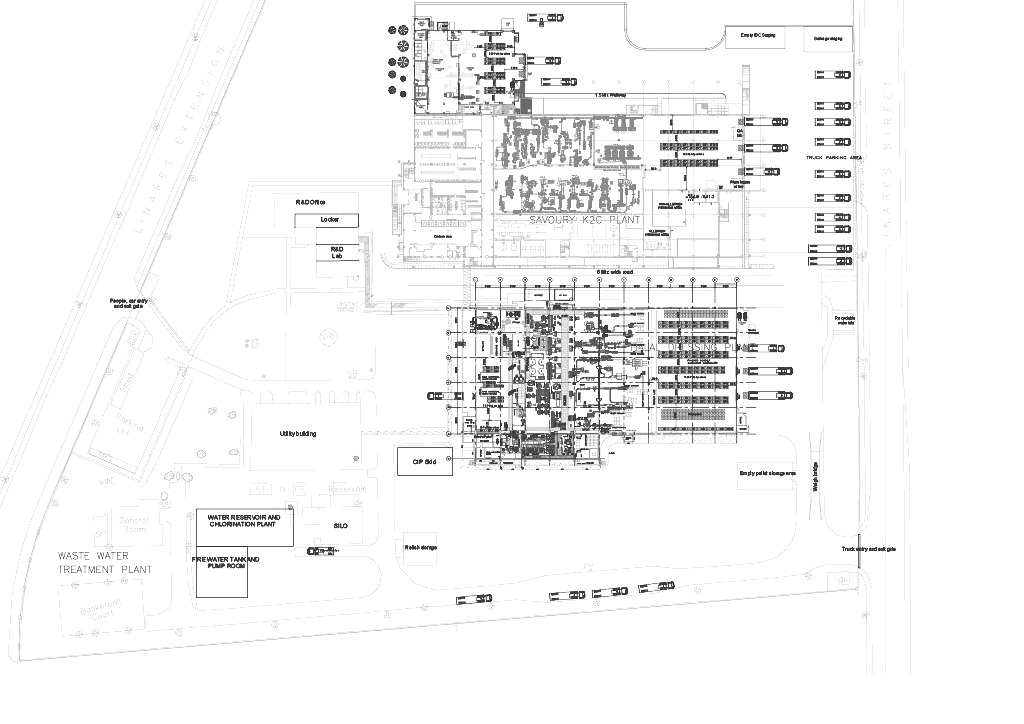
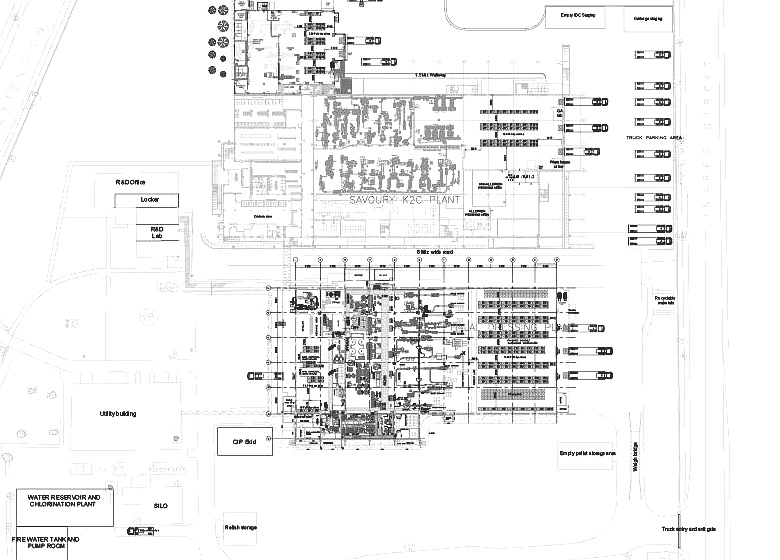
a

diff --git a/src/styles/App.css b/src/styles/App.css
@@ -3700,10 +3700,9 @@ body:has(.loading-aware-btn:disabled) * {
 
 /* =========================================================
    Workforce Map page
-   - uses real map assets:
-     /public/workforce-map-light.jpg
-     /public/workforce-map-dark.jpg
-   - side "Inside now" list removed; legend + latest scan only
+   - updated legends: Admin, Production, Engineering,
+     Logistics/QA, and R&D
+   - map is zoomed and sharpened for better readability
 ========================================================= */
 .workforce-map-page {
   min-height: calc(100vh - 190px);
@@ -3824,7 +3823,7 @@ body:has(.loading-aware-btn:disabled) * {
 .map-blueprint-canvas {
   position: relative;
   height: 100%;
-  min-height: 570px;
+  min-height: 580px;
   border-radius: 22px;
   overflow: hidden;
   display: flex;
@@ -3845,9 +3844,9 @@ body:has(.loading-aware-btn:disabled) * {
 
 .map-image-frame {
   position: relative;
-  width: min(100%, calc((100vh - 275px) * 1.414));
+  width: min(100%, calc((100vh - 260px) * 1.393));
   max-width: 100%;
-  aspect-ratio: 1024 / 724;
+  aspect-ratio: 780 / 560;
   border-radius: 18px;
   overflow: hidden;
   box-shadow: 0 12px 30px rgba(15, 23, 42, 0.10);
@@ -3878,7 +3877,7 @@ body:has(.loading-aware-btn:disabled) * {
 }
 
 .app-shell[data-theme="dark"] .map-image-frame::after {
-  background: linear-gradient(180deg, rgba(11,17,29,0.06), rgba(11,17,29,0.10));
+  background: linear-gradient(180deg, rgba(11,17,29,0.05), rgba(11,17,29,0.10));
 }
 
 .map-zone {
@@ -3927,58 +3926,30 @@ body:has(.loading-aware-btn:disabled) * {
   line-height: 1;
 }
 
-.area-engineering {
-  background: rgba(124, 58, 237, 0.20);
-  color: #5b21b6;
-  border-color: rgba(124, 58, 237, 0.48);
-}
-
-.area-production {
-  background: rgba(37, 99, 235, 0.18);
-  color: #1d4ed8;
-  border-color: rgba(37, 99, 235, 0.44);
-}
-
-.area-warehouse {
-  background: rgba(20, 184, 166, 0.20);
-  color: #0f766e;
-  border-color: rgba(13, 148, 136, 0.46);
-}
-
-.area-utilities {
-  background: rgba(249, 115, 22, 0.20);
-  color: #c2410c;
-  border-color: rgba(249, 115, 22, 0.46);
-}
-
 .area-admin {
   background: rgba(236, 72, 153, 0.20);
   color: #be185d;
   border-color: rgba(236, 72, 153, 0.44);
 }
-
-.app-shell[data-theme="dark"] .area-engineering {
-  background: rgba(124, 58, 237, 0.34);
-  color: #f3e8ff;
-  border-color: rgba(216, 180, 254, 0.70);
+.area-production {
+  background: rgba(37, 99, 235, 0.18);
+  color: #1d4ed8;
+  border-color: rgba(37, 99, 235, 0.44);
 }
-
-.app-shell[data-theme="dark"] .area-production {
-  background: rgba(37, 99, 235, 0.32);
-  color: #eff6ff;
-  border-color: rgba(147, 197, 253, 0.68);
+.area-engineering {
+  background: rgba(249, 115, 22, 0.20);
+  color: #c2410c;
+  border-color: rgba(249, 115, 22, 0.46);
 }
-
-.app-shell[data-theme="dark"] .area-warehouse {
-  background: rgba(20, 184, 166, 0.34);
-  color: #f0fdfa;
-  border-color: rgba(153, 246, 228, 0.68);
+.area-logisticsqa {
+  background: rgba(20, 184, 166, 0.20);
+  color: #0f766e;
+  border-color: rgba(13, 148, 136, 0.46);
 }
-
-.app-shell[data-theme="dark"] .area-utilities {
-  background: rgba(249, 115, 22, 0.34);
-  color: #fff7ed;
-  border-color: rgba(253, 186, 116, 0.70);
+.area-rd {
+  background: rgba(124, 58, 237, 0.20);
+  color: #5b21b6;
+  border-color: rgba(124, 58, 237, 0.48);
 }
 
 .app-shell[data-theme="dark"] .area-admin {
@@ -3986,13 +3957,33 @@ body:has(.loading-aware-btn:disabled) * {
   color: #fdf2f8;
   border-color: rgba(251, 182, 206, 0.68);
 }
+.app-shell[data-theme="dark"] .area-production {
+  background: rgba(37, 99, 235, 0.30);
+  color: #eff6ff;
+  border-color: rgba(147, 197, 253, 0.68);
+}
+.app-shell[data-theme="dark"] .area-engineering {
+  background: rgba(249, 115, 22, 0.34);
+  color: #fff7ed;
+  border-color: rgba(253, 186, 116, 0.70);
+}
+.app-shell[data-theme="dark"] .area-logisticsqa {
+  background: rgba(20, 184, 166, 0.34);
+  color: #f0fdfa;
+  border-color: rgba(153, 246, 228, 0.68);
+}
+.app-shell[data-theme="dark"] .area-rd {
+  background: rgba(124, 58, 237, 0.34);
+  color: #f3e8ff;
+  border-color: rgba(216, 180, 254, 0.70);
+}
 
-/* Positions are relative to the real 1024x724 map image. */
-.zone-engineering { left: 46%; top: 4%; width: 22%; height: 25%; }
-.zone-production { left: 44%; top: 16%; width: 38%; height: 27%; }
-.zone-warehouse { left: 50%; top: 46%; width: 33%; height: 22%; }
-.zone-utilities { left: 28%; top: 59%; width: 14%; height: 13%; }
-.zone-admin { left: 42%; top: 45%; width: 16%; height: 18%; }
+/* Positions relative to the cropped 780x560 map asset. */
+.zone-rd { left: 9%; top: 26%; width: 13%; height: 15%; }
+.zone-engineering { left: 7%; top: 60%; width: 16%; height: 15%; }
+.zone-production { left: 29%; top: 11%; width: 52%; height: 42%; }
+.zone-logisticsqa { left: 39%; top: 45%; width: 17%; height: 10%; }
+.zone-admin { left: 32%; top: 50%; width: 16%; height: 15%; }
 
 @media (min-width: 1181px) {
   .workforce-map-page {

diff --git a/src/pages/WorkforceMapPage.jsx b/src/pages/WorkforceMapPage.jsx
@@ -3,11 +3,11 @@ import AppShell from "../components/AppShell.jsx";
 import { useWorkforceStore } from "../store/useWorkforceStore.js";
 
 const AREA_META = [
-  { key: "engineering", label: "Engineering", icon: "⚙", className: "area-engineering" },
-  { key: "production", label: "Production", icon: "🏭", className: "area-production" },
-  { key: "warehouse", label: "Warehouse", icon: "▣", className: "area-warehouse" },
-  { key: "utilities", label: "Utilities", icon: "⚡", className: "area-utilities" },
-  { key: "admin", label: "Admin", icon: "👤", className: "area-admin" },
+  { key: "admin", dataKey: "admin", label: "Admin", icon: "👤", className: "area-admin" },
+  { key: "production", dataKey: "production", label: "Production", icon: "🏭", className: "area-production" },
+  { key: "engineering", dataKey: "utilities", label: "Engineering", icon: "⚙", className: "area-engineering" },
+  { key: "logisticsqa", dataKey: "warehouse", label: "Logistics / QA", icon: "🧪", className: "area-logisticsqa" },
+  { key: "rd", dataKey: "engineering", label: "R&D", icon: "🔬", className: "area-rd" },
 ];
 
 function formatLatestScan(value) {
@@ -90,7 +90,7 @@ export default function WorkforceMapPage() {
             <div className="map-side-title">Legend</div>
             <div className="map-legend-list">
               {AREA_META.map((area) => {
-                const data = areaLookup.get(area.key) || {};
+                const data = areaLookup.get(area.dataKey) || {};
                 return (
                   <div className="map-legend-row" key={area.key}>
                     <span className={`map-legend-icon ${area.className}`}>{area.icon}</span>
@@ -111,9 +111,8 @@ export default function WorkforceMapPage() {
             <div className="map-blueprint-canvas" aria-label="Workforce map">
               <div className="map-image-frame">
                 {AREA_META.map((area) => {
-                  const data = areaLookup.get(area.key) || {};
+                  const data = areaLookup.get(area.dataKey) || {};
                   const activeCount = Number(data.activeCount) || 0;
-
                   return (
                     <button
                       type="button"